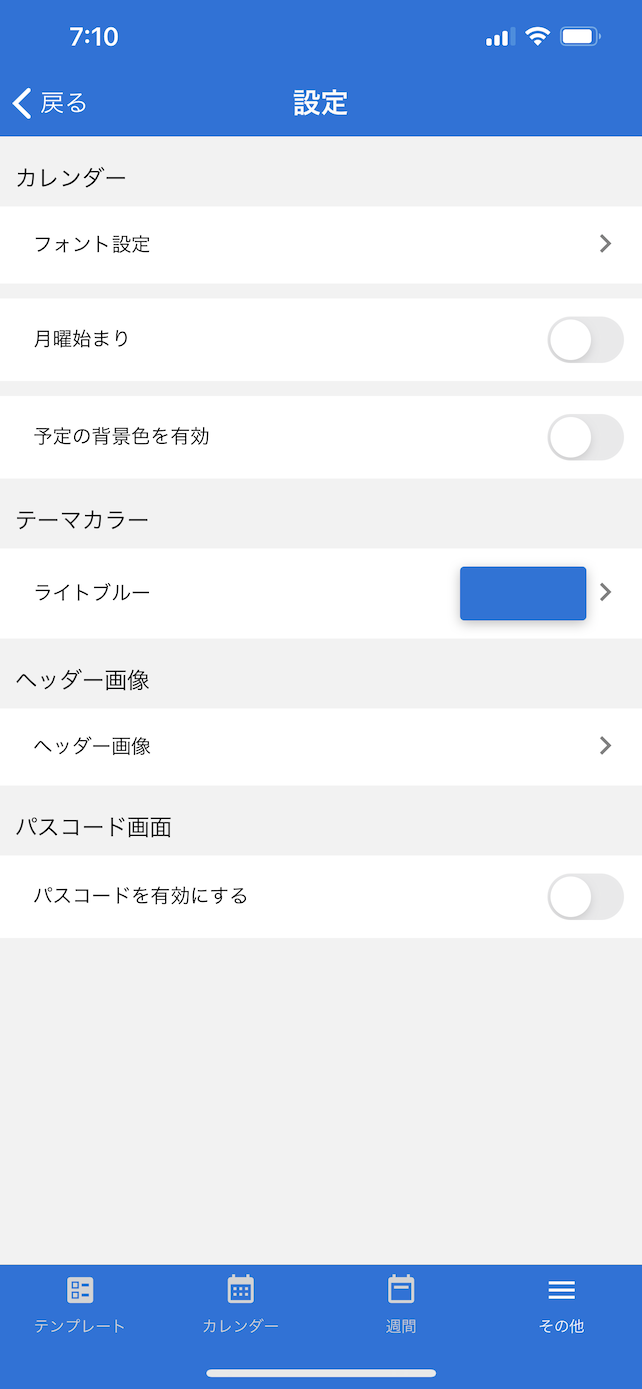
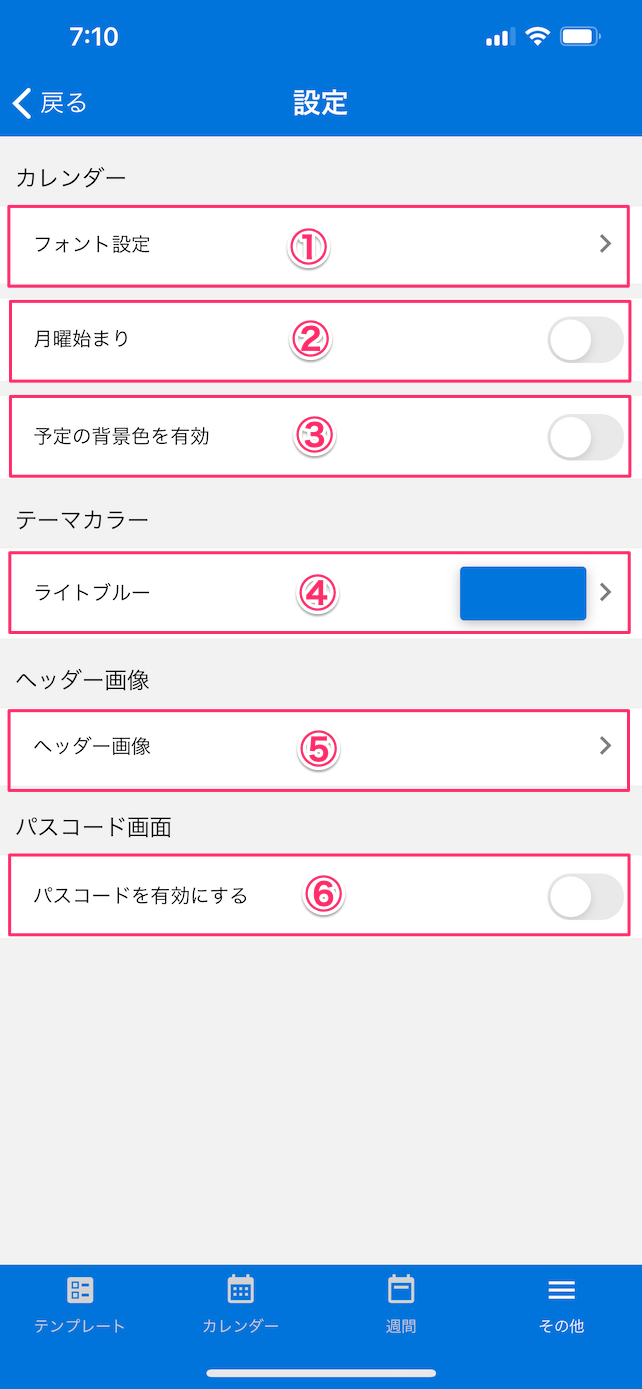
設定関連の説明追加

diff --git a/settings/font.md b/settings/font.md
@@ -1,4 +1,4 @@
-[その他に戻る](../other.md)
+[設定に戻る](base.md)
 
 ## フォント設定
 ***
@@ -9,4 +9,17 @@
 
 <img src="../imgs/screens/font_setting_screen.png" width="320" />
 
-[その他に戻る](../other.md)
+### 説明
+
+1. `月カレンダー/日付サイズ`：月カレンダーの各日付のフォントサイズを設定します。
+1. `月カレンダー/予定サイズ`：月カレンダーに表示する予定件名テキストのフォントサイズを設定します。
+1. `月カレンダー/太字`：月カレンダーに表示する予定件名テキストのフォントをボールドにする場合、設定をONにします。
+1. `月カレンダー/カレンダーカラー`：月カレンダーのに表示する予定件名テキストのカラーを任意に設定する場合、設定をONにします。
+1. `月カレンダー/カラー`：月カレンダーの各日付に表示する予定件名テキストのカラーを任意に設定する場合のカラーを設定します。
+1. `週カレンダー/サイズ`：週カレンダーに表示する予定件名テキストのフォントサイズを設定します。
+1. `週カレンダー/太字`：週カレンダーに表示する予定件名テキストのフォントをボールドにする場合、設定をONにします。
+1. `週カレンダー/カレンダーカラー`：週カレンダーに表示する予定件名テキストのカラーを任意に設定する場合、設定をONにします。
+1. `週カレンダー/カラー`：週カレンダーに表示する予定件名テキストのカラーを任意に設定する場合のカラーを設定します。
+
+
+[設定に戻る](base.md)

diff --git a/settings/base.md b/settings/base.md
@@ -10,12 +10,12 @@
 <img src="../imgs/screens/base_setting_screen.png" width="320" />
 
 ### 説明
-- `フォント設定`：
-- `月曜始まり`：
-- `予定の背景色を有効`：
-- `テーマカラー`：
-- `ヘッダー画像`：
-- `パスコード画面`：スケジュールレポアプリ起動時にパスコードによりロックする場合、「パスコードを有効にする」をONにします。
+- [`フォント設定`](font.md)：月カレンダー、週カレンダーのフォント設定を行います。
+- `月曜始まり`：月カレンダーで月曜始まりで表示する場合、設定をONにします。
+- `予定の背景色を有効`：月カレンダーで予定の背景色をカレンダー色で塗り潰す場合に設定をONにします。
+- `テーマカラー`：アプリ全体の色を設定します。
+- [`ヘッダー画像`](header_image.md)：ヘッダーの背景に画像を設定する場合、一覧から画像を選択します。
+- [`パスコード画面`](passcode.md)：スケジュールレポアプリ起動時にパスコードによりロックする場合、設定をONにします。
 
 
 [その他に戻る](../other.md)

diff --git a/index.md b/index.md
@@ -7,7 +7,7 @@
 
 ### 機能一覧
 
-- [テンプレート一覧](./templates.md)：テンプレートの一覧を表示します。
-- [月カレンダー](./monthly_calendar.md)：月形式のカレンダーを表示します。
-- [週カレンダー](./weekly_calendar.md)：週形式のカレンダーを表示します。
-- [その他](./other.md)：その他の機能を一覧表示します。
+- [`テンプレート一覧`](./templates.md)：テンプレートの一覧を表示します。
+- [`月カレンダー`](./monthly_calendar.md)：月形式のカレンダーを表示します。
+- [`週カレンダー`](./weekly_calendar.md)：週形式のカレンダーを表示します。
+- [`その他`](./other.md)：その他の機能を一覧表示します。

diff --git a/settings/passcode.md b/settings/passcode.md
@@ -1,0 +1,16 @@
+[設定に戻る](base.md)
+
+## パスコード設定
+***
+
+> スケジュールレポアプリ起動時にパスコードでロックすることができます。
+
+### 画面イメージ
+
+<img src="../imgs/screens/passcode_setting_screen.png" width="320" />
+
+### 説明
+
+- アプリ起動時にパスコードロックを有効にする場合の数字4桁のパスコードを設定します。
+
+[設定に戻る](base.md)

diff --git a/settings/header_image.md b/settings/header_image.md
@@ -1,0 +1,15 @@
+[設定に戻る](base.md)
+
+## ヘッダーイメージ設定
+***
+
+> ヘッダーの背景に表示する画像を設定します。
+
+### 画面イメージ
+
+<img src="../imgs/screens/header_image_screen.png" width="320" />
+
+### 説明
+- ヘッダー背景に画像を表示する場合、一覧から画像を選択します。
+
+[設定に戻る](base.md)
